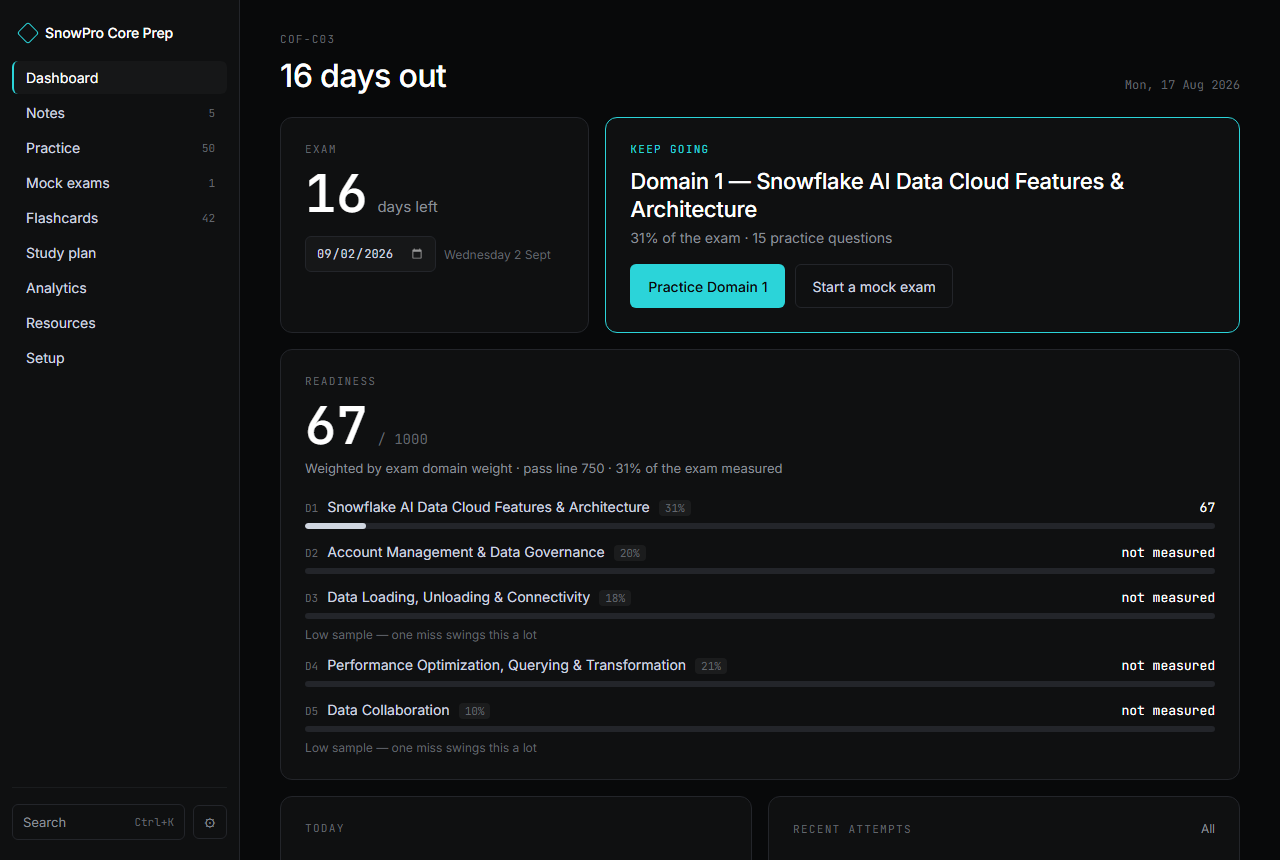
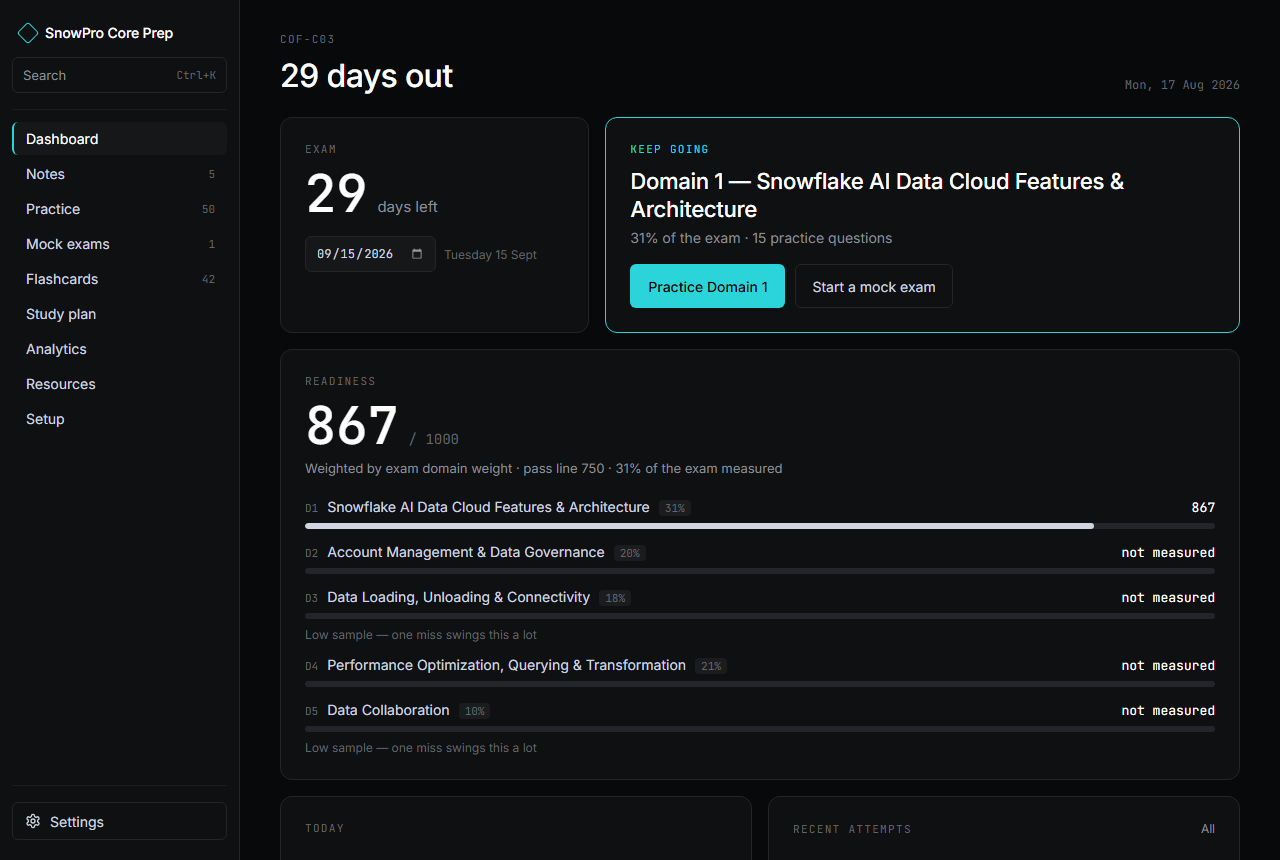
README: refresh stale screenshots, add 3 more with captions
Dashboard and Study plan were captured before the Search/Settings
redesign -- still showed the old paired sidebar footer that no longer
exists. Recaptured both, plus Practice runner, against the current build.

Added three screenshots for features that had zero visual representation:
Results & review (the most-praised screen from the earlier UX pass),
Flashcards (flipped, showing the knew-it/missed-it buttons), and
Analytics (domain readiness bars + pacing). Generated real, realistic
data first (answered Domain 1 using the actual answer key, missing 2 of
15 on purpose) rather than screenshotting empty states -- 867/1000,
above the pass line.

Every screenshot now has a one-line italic caption underneath instead of
relying on alt text alone.

diff --git a/README.md b/README.md
@@ -6,6 +6,7 @@ mock exams, flashcards, a day-by-day plan, and analytics. No account, no cloud s
 telemetry — your content and your progress both stay on your machine.
 
 ![Dashboard](.github/screenshot-dashboard.png)
+*Exam countdown, weighted readiness, and today's plan tasks — all in one view.*
 
 ## Why this exists
 
@@ -66,9 +67,20 @@ entirely. See [Adding or editing content](#adding-or-editing-content) below.
     undo** — Export first if there's any chance you'll want this data back.
   - **Light mode** — present in the UI but not implemented yet (dark theme only for now).
 
-![Study plan](.github/screenshot-plan.png)
-
 ![Practice runner](.github/screenshot-runner.png)
+*One question per screen, arrow-key navigation, flag-for-review, and a jump palette.*
+
+![Results & review](.github/screenshot-results.png)
+*Wrong answers explained first, each with a direct link back to the note that covers it.*
+
+![Flashcards](.github/screenshot-flashcards.png)
+*A knew-it/missed-it rating biases which cards resurface first next session.*
+
+![Study plan](.github/screenshot-plan.png)
+*A day-by-day plan that remaps itself to whatever exam date you set — not a fixed calendar.*
+
+![Analytics](.github/screenshot-analytics.png)
+*Readiness weighted by real exam domain weights, plus pacing against the actual time budget.*
 
 ## Start preparing in minutes
 
